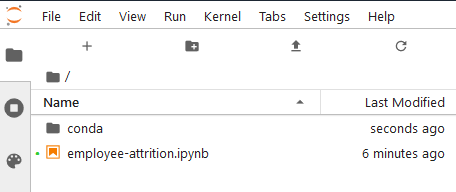
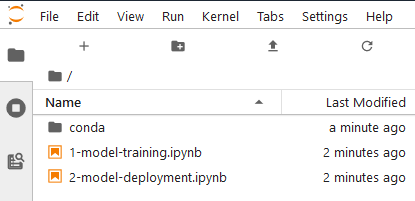
update to procedures

diff --git a/labs/DSGo-Oct2021/procedures/odsc-0-tenancy-setup-stack.md b/labs/DSGo-Oct2021/procedures/odsc-0-tenancy-setup-stack.md
@@ -33,51 +33,46 @@ If you already have a cloud account with unused cloud credits, skip to **Task 2*
     * Check the box to indicate you are human and complete the captcha
 
 1. Once you have entered a valid email address, select the **Verify my email** button.
-    The screen will appear as follows after you select the button:
-    ![](images/verify-email.png " ")
 
 1. As a participant in this DSGo event, you are being offered an Oracle Cloud Trial with $500 in free cloud credits for 30 days. You will see a popup for this offer. Click the **Select Offer** button.
-  ![](images/special-offer.png)
+    ![](images/special-offer.png)
 
-1. Go to your email. You will see an account validation email from Oracle in your inbox. The email will be similar to the following:
-    ![](images/verification-mail.png " ")
-
-1. Select the link (if possible) or copy and paste the link into your browser.
-
-1. Enter the following information to create your Oracle Cloud Free Tier account.
+1. The Account information form appears. Enter the following information to create your Oracle Cloud Free Tier account.
     - Choose a **Password**. Remember what you entered. You'll need this later to sign in.
     - Enter your **Company Name**
     - Your **Cloud Account Name** will be generated automatically based on your inputs, but you can change that name by entering a new value. Remember what you entered. You'll need this name later to sign in.
-    - Choose a **Home Region**. Your Home Region cannot be changed once you sign-up. Select *US East (Ashburn)*
+    - Choose a **Home Region**. Your Home Region cannot be changed once you sign-up. **Important** - Select ***US East (Ashburn)***
     - Click **Continue**
     ![](images/account-info.png " ")
 
 1.  Enter your Address information.  Click **Continue**.
   ![](images/free-tier-address.png " ")
 
-1. Check the box under Agreement to start your free trial.
+1. **Check the box** under Agreement then click **Start my free trial**.
   ![](images/free-tier-agreement.png " ")
 
   > **Note** - if you selected the offer for the free Cloud Trial above, you will not be asked for a payment verification method.
 
-1. You will have to wait briefly while your account is setup.
+1. You will have to wait briefly (<1 minute) while your account is setup.
 
   ![](images/setup-wait.png " ")
 
+  > Note - After provisioning is complete, you may be asked for information about your role. You can choose to skip or provide your role.
+
 1. Then you will be redirected to the OCI Console. We'll use the console in the next task.
 
-1. You'll also receive two emails from Oracle. One email will be the initial notification that provisioning is underway and it will list **important information** you will need in this workshop:
+1. You'll also receive an email from Oracle and it will list **important information** you will need in this workshop:
    - Cloud account
    - Username
    - Link (button) to access your account
 
-
-   The other email will be a notification that provisioning is complete. Here is a copy of the final notification:
-  ![](images/account-provisioned.png " ")
+1. You'll receive another email when provisioning is complete, but you don't need to wait for it.
 
 
 ## **TASK 2:** Sign in to Your Account
 When you sign up for an Oracle Cloud account, a user is created for you in Oracle Identity Cloud Service with the username and password you selected at sign up. You can use this single sign-on option to sign in to Oracle Cloud Infrastructure and then navigate to other Oracle Cloud services without reauthenticating. This user has administrator privileges for all the Oracle Cloud services included with your account.
+
+1. If you are already viewing the OCI console from the sign-in process, you can proceed to the next task. However, if you need to sign-in, continue with these steps.
 
 1. Use the account access **link in your confirmation email** (this provides a shortcut to the sign-in for your account and region).  Enter your user name and password and click **Sign In**. Your username is your email address. The password is what you chose when you signed up for an account.
 
@@ -97,24 +92,13 @@ When you sign up for an Oracle Cloud account, a user is created for you in Oracl
 
     ![](images/oci-console-home-page.png " ")
 
-## **TASK 3:** Create a Compartment
-When you sign up for an Oracle Cloud Infrastructure account, you were assigned a secure and isolated partition within the cloud infrastructure called a tenancy. The tenancy has the same name as the cloud account that you selected during the sign-up process. The tenancy is the root container where you can create, organize, and administer your cloud resources.
-Within tenancies you can organize and control access to cloud resources using compartments. A compartment is a collection of related cloud resources. We will create a compartment for the Data Science lab resources.
-
-  1. The navigation menu is accessed by clicking the 3-bar (aka "hamburger") icon in the upper left corner of the page. Click the **3-bar icon** in the upper left, select **Identity & Security**, and then select **Compartments**.
-      ![](images/identity-menu.png)
-
-  1. Click **Create Compartment** to open the Create Compartment dialog.
-
-  1. In the Create Compartment dialog, enter the **Name** of the compartment (use *DataScienceHOL*) and a **Description**, and then select the *root* compartment from the **Parent Compartment** drop-down. Click **Create Compartment**. (Compartment names can’t have spaces, but they can contain hyphens and periods.)
-
-## **TASK 4:** Configure Compartment using a Stack
+## **TASK 3:** Configure Compartment using a Stack
 A stack is a blueprint for a collection of cloud resources that can be automatically provisioned using Terraform in the OCI console. OCI contains a stack template for Data Science that we will use to quickly configure the environment.
 
-1. In the OCI console, use the menu to go to **Developer Services** and under *Resource Manager* select **Stacks**.
+1. In the OCI console, use the three-bar icon in the upper left corner of the page to open the menu. Go to **Developer Services** and under *Resource Manager* select **Stacks**.
   ![](images/console-stacks.png)
 
-1. Select compartment **DataScienceHOL**, then click **Create Stack**.
+1. Select compartment **cloud account (root)**, then click **Create Stack**.
   ![](images/create-stack-compartment.png)
 
 1. In the *Create Stack* dialog, select the **Template** radio button.
@@ -122,23 +106,30 @@ A stack is a blueprint for a collection of cloud resources that can be automatic
 
 1. Click **Select Template**
 
-1. In the *Browse Templates* dialog, check **Data Science**, the click **Select Template**.
+1. In the *Browse Templates* dialog, on the *Service* tab, check **Data Science**, the click **Select Template**.
   ![](images/browse-templates.png)
 
-1. Back in the *Create Stack* dialog, change the **Description** to *Provision a compartment for Data Science*.
+1. Back in the *Create Stack* dialog, change the **Description** to *Provision Data Science*.
   ![](images/create-stack-info.png)
 
-1. Ensure **Compartment** is set to **DataScienceHOL**
+1. Ensure **Compartment** is set to **root**
 
 1. Click **Next**.
 
-1. On the *Configure Variables* page, leave the defaults and click **Next**
-    ![](images/create-stack-vars.png)
+1. On the *Configure Variables* page, under **Project and Notebook Configuration**, check **Create a project and notebook session?**
+
+  - Change the *Project Name* to **employee-attrition-project**
+  - Change the *Notebook Session Name* to **LabNotebookSession**
+  - Change *Notebook Compute Shape* to **VM.Standard2.4**
+  - Change *Notebook Storage Size* to **100**
+  - Leave *How many notebooks would you like to create?* at **1**
+  - leave the other defaults, and click **Next**
+    ![](images/stack-project-notebook-config.png)
 
 1. On the Review page, check **Run Apply**, then click **Create**.
   ![](images/create-stack-review.png)
 
-1. This starts a Resource Manager job that takes less than a minute to run. When the job is complete, the status will change to *Succeeded*.
+1. This starts a Resource Manager job that takes less than a minute to run. When the job is complete, the status will change from *Accepted* to *In Progress* to **Succeeded**.
   ![](images/resource-manager-succeeded.png)
 
 This stack template configured the following resources in the **DataScienceHOL** compartment:
@@ -147,6 +138,8 @@ This stack template configured the following resources in the **DataScienceHOL**
 * User group named *DataScienceGroup*
 * Dynamic group named *DataScienceDynamicGroup*
 * A set of policies named *DataSciencePolicies*
+* A Data Science project named *employee-attrition-project*
+* A Data Science notebook session named *LabNotebookSession*
 
 
-You are now ready to begin the Data Science workshop. You may [proceed to the next lab](odsc-1-intro.md).
+You are now ready to begin the Data Science workshop. **You may proceed to the next lab.**

diff --git a/labs/DSGo-Oct2021/procedures/odsc-3-python-model.md b/labs/DSGo-Oct2021/procedures/odsc-3-python-model.md
@@ -4,6 +4,14 @@
 
 This lab will guide you through a practical example of how to train, evaluate, and catalog a machine learning model. The notebook you will use describes the details of the use case.
 
+Since our notebook session was automatically created by the stack template, we didn't to manually create it. Data Science notebook sessions are interactive coding environments for building and training models. Notebook sessions provide access to a JupyterLab environment that is managed by the Data Science service.
+
+A notebook session is associated with a compute instance, VCN, subnet, and block storage. To provide users control over how compute and storage are consumed, the compute shape and the amount of storage are selectable and a notebook session can be deactivated to stop compute usage and reactivated later. A notebook session can be terminated when it is no longer needed.
+
+There are two block storage drives associated with a notebook session. There is a boot volume that is initialized each time the notebook session is activated. Any data on the boot volume is lost when the notebook session is deactivated or terminated. There is an additional block storage unit that is preserved when a notebook session is deactivated, but it is destroyed when a notebook session is terminated. This block volume is represented by the ``/home/datascience`` directory and it is where the JupyterLab notebooks, data files, installed custom software, and other files should be stored.
+
+When a notebook session is created or activated, the compute instance, block storage, VCN, and subnet are provisioned and configured. These resources can be changed by deactivating a notebook session, then selecting different configuration when activating the notebook session again. The size of the block storage can only be increased.
+
 Estimated lab time: 15 minutes
 
 ### Objectives
@@ -15,15 +23,14 @@ In this lab you will:
 ### Prerequisites
 * You are signed-in to Oracle Cloud
 * You have navigated to Data Science
-* You have selected the **DataScienceHOL** compartment
-* You have opened the project you created in Lab 1
-* You have a notebook session in your project that is Active
 
-## **STEP 1:** Open a Notebook Session
+## **STEP 1:** Open a Project and Notebook Session
 
-1. Confirm you have completed all the prerequisites and are viewing your Data Science project. (Your project name and notebook session name will be different than what is shown in the image.)
+1. Confirm you have completed all the prerequisites and are viewing your Data Science project list.
 
-  ![](images/ds-project-holuser.png)
+  ![](images/projects.png)
+
+1. Click **employee-attrition-project**.
 
 1. Under Resources, click **Notebook Sessions** if it is not already selected.
 
@@ -49,6 +56,9 @@ A Conda environment is a collection of libraries, programs, components and metad
 
     ![](images/notebook_launcher.png)
 
+  1. There is an icon next to the search bar to change the user interface from a list to cards. Switch to **Cards**.
+    ![](images/list-cards.png)
+
   1. In the *Environment Explorer* tab, select the **Data Science Conda Environment** filter button, select **CPU** architecture filter, then scroll down until you find the **Tensor Flow 2.6 for CPU Python 3.7** conda. (If you see no results, use the refresh button on the right side of the filter bar of the Environment Explorer.)
 
     ![](images/notebook_ee_condaTF26.png)
@@ -67,14 +77,14 @@ A Conda environment is a collection of libraries, programs, components and metad
 
   It takes about 3-5 minutes for the conda package to be installed. You can continue with the next step while you're waiting for the installation to be completed.
 
-## **STEP 3:** Download the notebook
-A notebook has been prepared containing all the necessary Python code to explore the data, train the model, evaluate the model, and store it in the model catalog.
+## **STEP 3:** Download the notebooks
+Notebooks have been prepared containing all the necessary Python code to explore the data, train the model, evaluate the model, and store it in the model catalog.
 
   1. The files needed for this workshop are located in the **oci-data-science-ai-samples** public repository on Github. Open this [Github link](https://github.com/oracle/oci-data-science-ai-samples/archive/refs/heads/master.zip) to download a zip of the repository and save it to your local machine.
 
-  1. Unzip the repository and find `oci-data-science-ai-samples-dsgo.zip\oci-data-science-ai-samples-dsgo\labs\DSGo-Oct2021\notebooks\`
+  1. Unzip the repository and find `oci-data-science-ai-samples-dsgo.zip\oci-data-science-ai-samples-master\labs\DSGo-Oct2021\notebooks\`
 
-  1. Drag and drop the downloaded `1-model-training.ipynb` and `2-model-deployment.ipynb` from your computer's file explorer into your notebook session's root folder.
+  1. Drag and drop the downloaded `1-model-training.ipynb` and `2-model-deployment.ipynb` from your computer's file explorer into your notebook session's root folder. You might need to unzip the repository to your local machine first.
 
   ![](images/notebook-employee-attrition.png)
 
@@ -82,20 +92,24 @@ A notebook has been prepared containing all the necessary Python code to explore
 
   ![](images/notebook-terminal-condaTF26-install-finish.png)
 
+  1. You can also confirm it is installed by opening a Launcher tab. Go to menu bar and select File > New Launcher. On the Launcher tab you should now see a button for `Python [conda env:tensorflow26_p37_cpu_v1]`
+
+  ![](images/conda-installed.png)
+
 ## **STEP 4:** Open the Notebook
-You will open the notebook and step through it.
+You will open a notebook and step through it.
 
   1. In the notebook session's file browser, open notebook **1-model-training.ipynb**
 
   Select the file browser on the left side of the user interface if it is not already visible. Double-click on **1-model-training.ipynb**. A new tab opens in the workspace on the right.
 
-  1. Notice in the upper right corner of the notebook tab, it displays the name of the conda environment being used by this notebook. TODO - switch conda?
+  1. Notice in the upper right corner of the notebook tab, it displays the name of the conda environment being used by this notebook. Ensure it lists the `Python [conda env:tensorflow26_p37_cpu_v1]` conda you installed. If not, you can click on the name of the conda to switch it to the right one.
 
     ![](images/notebook-conda.png)
 
-  1. Now you will work in the notebook. Scroll through each cell and read the explanations. When you encounter a `code` cell, execute it (using **shift + enter**) and view the results. For executable cells, the "\[ ]" changes to a "[\*]" while executing, then a number "[1]" when complete. Continue to the end of the notebook.
+  1. Now you will work in the notebook. Scroll through each cell and read the explanations. When you encounter a `code` cell, execute it (using **shift + enter**) and view the results. For executable cells, the "\[ ]" changes to a "[\*]" while executing, then a number "[1]" when complete. Wait for execution to be completed before moving on to the next one. Continue to the end of the notebook.
 
   (If you run short on time, you can use the *Run* menu to run the remaining cells and the review the results.)
 
 
-**You can [proceed to the next lab](odsc-4-deploy-model.md).**
+**You may proceed to the next lab.**

diff --git a/labs/DSGo-Oct2021/procedures/odsc-4-deploy-model.md b/labs/DSGo-Oct2021/procedures/odsc-4-deploy-model.md
@@ -14,8 +14,7 @@ In this lab you will:
 ### Prerequisites
 * You are signed-in to Oracle Cloud
 * You have navigated to Data Science
-* You have selected the **DataScienceHOL** compartment
-* You have opened the project you created in Lab 1
+* You have opened the Data Science project
 * You have a notebook session in your project
 * You have a model stored in the model catalog
 
@@ -27,29 +26,31 @@ Now we're going to deploy the model to its own compute instance so that it can b
 
 1. Under *Resources*, select **Models** to see the list of models in your model catalog.
     ![](images/models.png)
-    TODO update image
 
-1. Find the row containing TODO **sklearn-employee-attrition**. On the right end of the row, click the 3-dot icon to open a pop-up menu.
+1. Find the row containing **sklearn-employee-attrition**. On the right end of the row, click the 3-dot icon to open a pop-up menu.
 
-1. In the pop-up menu, click **Create Deployment**. The *Create Model Deployment* dialog opens.
+1. In the pop-up menu, click **Create model deployment**. The *Create Model Deployment* dialog opens.
     ![](images/project-create-deployment.png)
 
 1. In the *Create Model Deployment* dialog, configure the fields as described below.
     ![](images/create-model-deployment.png)  
-    - Ensure *Compartment* is set to **DataScienceHOL**.
+    - Ensure *Compartment* is set to **root**.
     - Enter *Name* as **MyModelDeployment**
-    - Ensure *Models* is set to TODO **sklearn-employee-attrition**
+    - Ensure *Models* is set to **sklearn-employee-attrition**
     - In the *Compute* box, click **Select**.
     - Enter **1** for *Number of Instances* and check **VM.Standard2.4**. Then click **Submit**.
     ![](images/model-deployment-select-compute.png)
 
     - (We will not configure Logging in this lab.)
 
-    - Click **Submit** in the Create Model deployment dialog. It takes about 10 minutes for the deployment to be provisioned. Wait for the model to be deployed.
+    - Click **Create** in the Create Model deployment dialog. It takes about 10 minutes for the deployment to be provisioned and its status will be *Creating*. Wait for the status to change to *Active* to indicate the model is deployed.
+    ![](images/model-active.png)
 
-> **Note** - You just deployed the model through the OCI Console, but you can also deploy a model using python code in a notebook. The ADS library provides functions to do this. See [Model Deployment with ADS](https://docs.oracle.com/en-us/iaas/tools/ads-sdk/latest/user_guide/model_deployment/model_deployment.html) for more information.
+    > **Note** - You just deployed the model through the OCI Console, but you can also deploy a model using python code in a notebook. The ADS library provides functions to do this. See [Model Deployment with ADS](https://docs.oracle.com/en-us/iaas/tools/ads-sdk/latest/user_guide/model_deployment/model_deployment.html) for more information.
 
-1. When the model is deployed, copy the HTTP endpoint URI to your clipboard (to be used in the next step). You can find the uri in the OCI console in the details page of your model deployment under "Resources > Invoking Your Model".
+1. When the model is Active, copy the HTTP endpoint URI to your clipboard (to be used in the next step). To do that look under **Resources** and click **Invoking Your Model**. Your model endpoint is displayed. Use the **Copy** button to copy it to your clipboard.
+
+  ![](images/model-endpoint.png)
 
 ## **STEP 2:** Invoke the deployed model
 Now that the model is deployed, we will go back to the notebook and invoke its HTTP endpoint.
@@ -77,8 +78,8 @@ uri = ''
 
 1. Execute each code block of the notebook.
 
-1. TODO Review the json inputs and outputs and see that your deployed model returned an attrition prediction for the submitted input data.
+1. Review the output and see that your deployed model returned attrition predictions for the submitted input data.
 
 Congratulations! You have successfully built, trained, cataloged, deployed, and invoked a machine learning model with OCI Data Science.
 
-**You can [proceed to the next lab](odsc-5-notebook-shutdown.md).**
+**You may proceed to the next lab.**

diff --git a/labs/DSGo-Oct2021/procedures/odsc-1-intro.md b/labs/DSGo-Oct2021/procedures/odsc-1-intro.md
@@ -26,8 +26,7 @@ This is the agenda:
 * Lab 1 - Introduction, Sign-in, and Navigation
 	* OCI Data Science Concepts
 	* Sign-in to OCI Cloud Environment
-* Lab 2 - Create a Notebook Session
-	* Create a notebook session
+* Lab 2 - (REMOVED)
 * Lab 3 - Build a Model Using Provided Notebook
 	* Open a notebook session
 	* Install a conda environment
@@ -52,7 +51,6 @@ In this first lab, you will:
 ### Prerequisites
 
 * An Oracle Cloud Infrastructure tenancy and login, configured for using OCI Data Science
-* A compartment in the tenancy called **DataScienceHOL**
 
 ## **STEP 1:** OCI Data Science Concepts
 
@@ -83,22 +81,13 @@ Review the following concepts and terms to help you get started with the Data Sc
 1. You should now be viewing the Data Science projects page. In this step you will familiarize yourself with the page. This lists projects that have been created in the selected compartment. Compartments allow resources to be grouped and isolated for access control and management. The list of projects can also be filtered by state and/or by tags.
   ![](images/projects_nocompartment.png)
 
-1. For this lab, you will use a compartment that you previously created called *DataScienceHOL*. Select that compartment - it is listed under the root compartment.
+1. For this lab, you will use the default root compartment.
   ![](images/projects_lab_compartment.png)
 
-1. Click **Create Project** to start creating a project.
-  ![](images/create-project.png)
+1. Notice you already have a project called **employee-attrition-project**. Click the project name.
 
-1. In the Create Project dialog, enter the following fields:
-  - Compartment: *DataScienceHOL*
-  - Name: *employee-attrition-project*
-  - Description: *Employee attrition workshop*
-  - Check **View detail page on clicking create**
-  ![](images/ds-create-project.png)
-  - Click **Create**.
-
-1. The project page lists project information along with resources contained in the project such as **notebook sessions**, **models**, **jobs**, and **model deployments**. Your project dosn't contain any of these yet but we'll be adding them throughout this workshop.
+1. The project page lists project information along with resources contained in the project such as **notebook sessions**, **models**, **jobs**, and **model deployments**. Your project should already contain a notebook session.
   ![](images/employee-attrition-project.png)
 
 
-You are now ready to **[proceed to the next lab](odsc-2-notebook-setup.md)**.
+**You may proceed to the next lab.**

diff --git a/labs/DSGo-Oct2021/procedures/odsc-5-notebook-shutdown.md b/labs/DSGo-Oct2021/procedures/odsc-5-notebook-shutdown.md
@@ -19,8 +19,7 @@ In this lab, you will:
 ### Prerequisites
 * You are signed-in to Oracle Cloud
 * You have navigated to Data Science
-* You have selected compartment *DataScienceHOL*
-* You have opened the project you created in Lab 1
+* You have opened the Data Science project
 
 ## STEP 1 - Deactivating Notebook Sessions
 1. Confirm you have completed all the prerequisites and are viewing your Data Science project.
